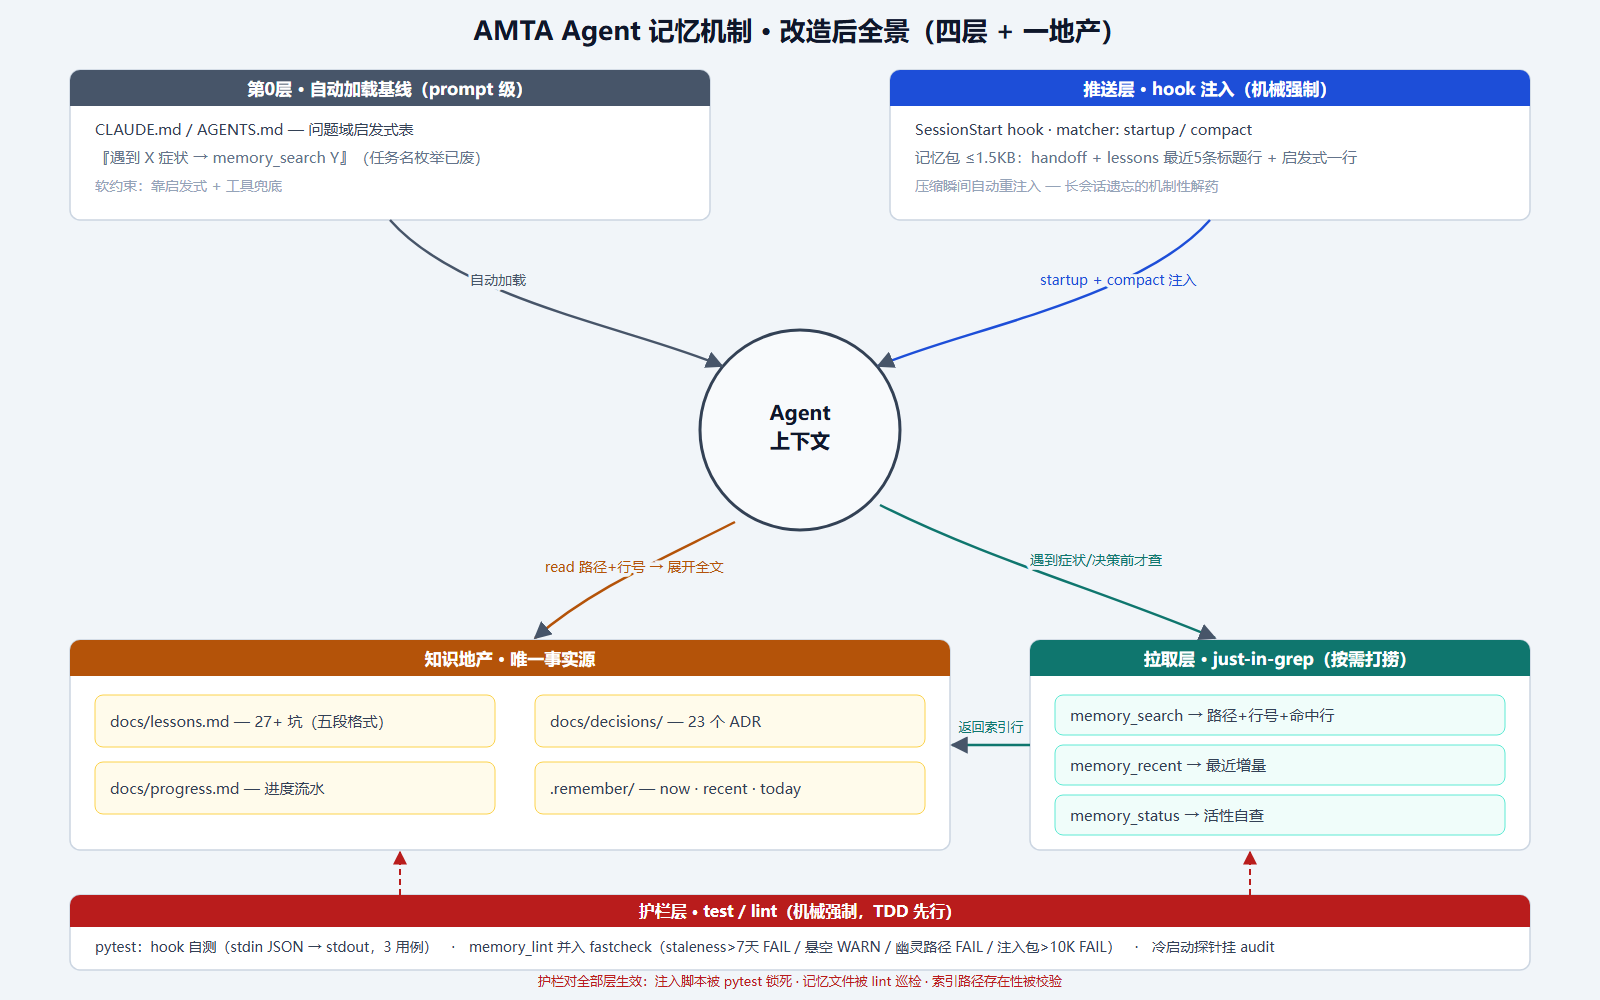
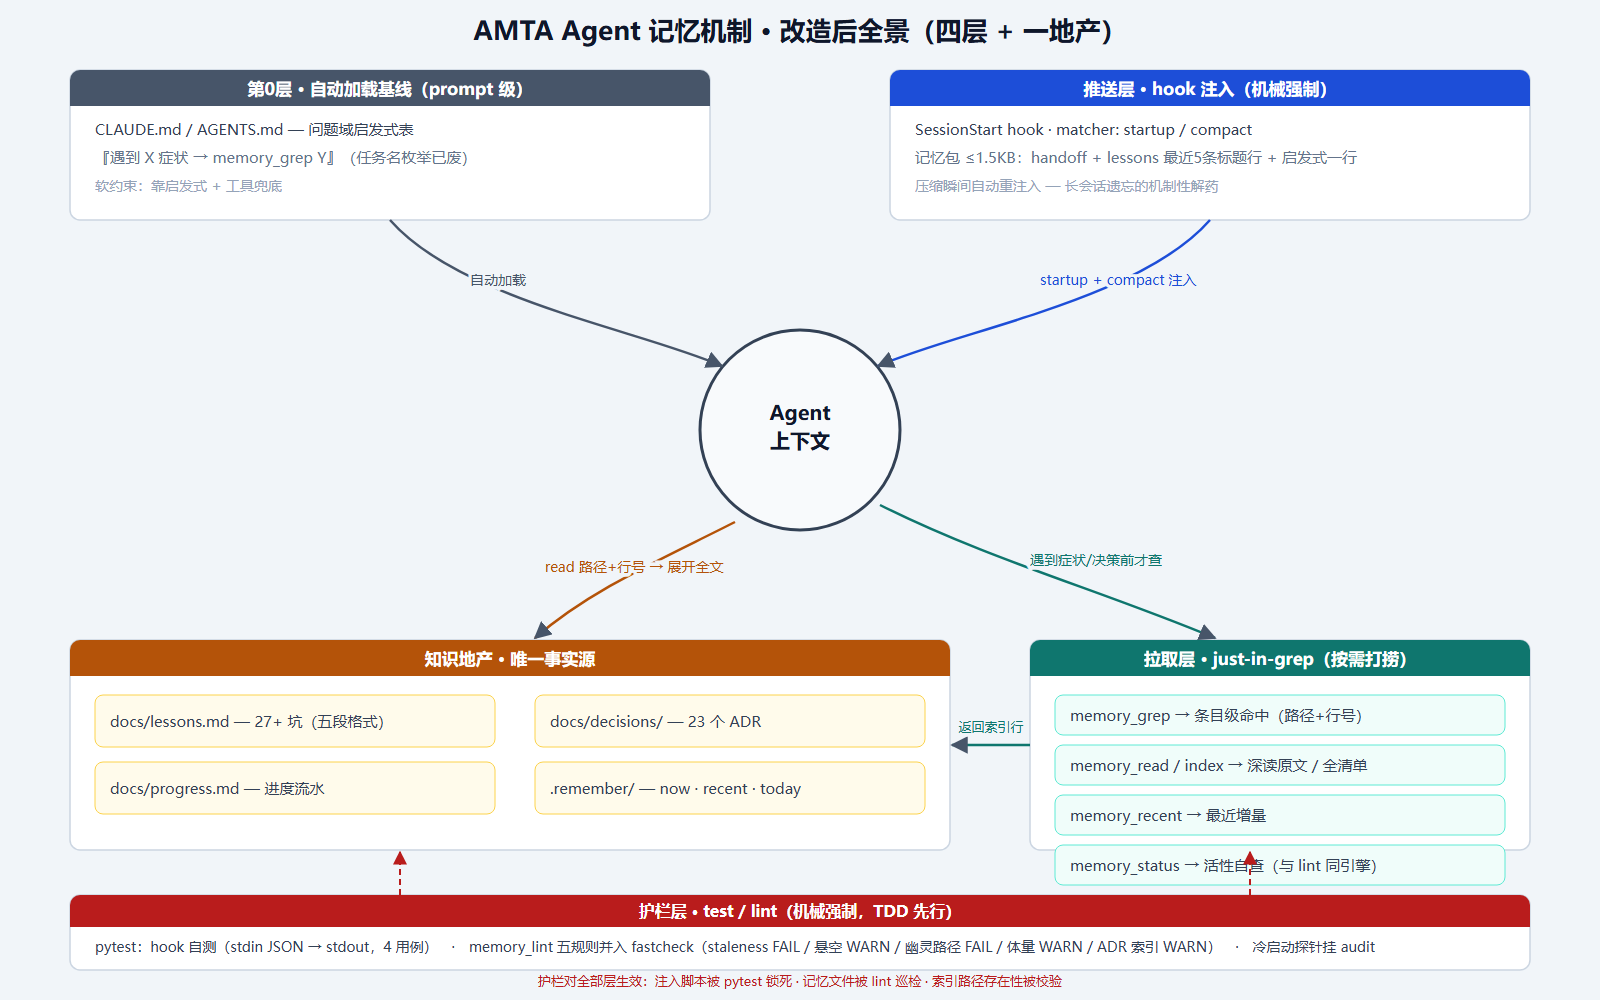
docs(memory): 图解资产对齐五工具族 + 知识晋升（收尾）
- SVG/HTML chips：memory_search 预设名 → 实装五工具族（grep/read/index/recent/status）
- Edge headless 重渲染 PNG（1600x1000）
- lessons L32（subprocess locale 解码）/ L33（fixture 入 conftest）
- progress.md 记忆机制条目

diff --git a/amta/research/07-agent记忆机制-图解.html b/amta/research/07-agent记忆机制-图解.html
@@ -64,7 +64,7 @@
       <ul>
         <li><b>startup 注入</b>记忆包 ≤1.5KB（handoff + lessons 标题行 + 启发式）——不靠自觉</li>
         <li><b>compact 重注入</b>——上下文被压缩的瞬间，记忆包自动回来</li>
-        <li><b>just-in-grep 打捞</b>——遇到症状才查，memory_search 返回路径+行号，read 展开全文</li>
+        <li><b>just-in-grep 打捞</b>——遇到症状才查，memory_grep 返回条目级命中（路径+行号），memory_read 展开全文</li>
         <li><b>linter 进 fastcheck</b>——记忆腐坏（过期/悬空/幽灵路径/超预算）在提交前被拦截</li>
       </ul>
     </div>
@@ -79,10 +79,10 @@
   <h2>三、每层在什么时刻生效</h2>
   <table>
     <tr><th style="width:22%">时机</th><th style="width:20%">层</th><th>发生什么</th><th style="width:15%">强制等级</th></tr>
-    <tr><td>会话启动 / resume</td><td class="k">第0层 基线</td><td>CLAUDE.md、AGENTS.md 自动加载：核心事实 + 问题域启发式表（"遇到 X → 先 memory_search Y"）</td><td>prompt 级（软）</td></tr>
+    <tr><td>会话启动 / resume</td><td class="k">第0层 基线</td><td>CLAUDE.md、AGENTS.md 自动加载：核心事实 + 问题域启发式表（"遇到 X → 先 memory_grep Y"）</td><td>prompt 级（软）</td></tr>
     <tr><td>会话启动（startup）</td><td class="k">推送层</td><td>hook 注入记忆包 ≤1.5KB：handoff（now/recent）+ lessons 最近 5 条标题行 + 启发式一行。agent 零动作即见</td><td><b>hook 级（机械）</b></td></tr>
     <tr><td>上下文压缩（compact）</td><td class="k">推送层</td><td>瘦版记忆包 ≤0.5KB 自动重注入——长会话"看两眼就忘"的机制性解药：压缩 = 记忆丢失点 = 重注入点</td><td><b>hook 级（机械）</b></td></tr>
-    <tr><td>工作中遇到症状 / 决策前</td><td class="k">拉取层</td><td>just-in-grep：memory_search（全知识地产正则检索，返回路径+行号+命中行）→ memory_recent（最近增量）→ 内置 read 展开全文</td><td>工具级（半机械）</td></tr>
+    <tr><td>工作中遇到症状 / 决策前</td><td class="k">拉取层</td><td>just-in-grep：memory_grep（条目级正则检索，命中即给路径+行号）→ memory_read / index（深读 / 全清单）→ memory_recent（最近增量）→ memory_status（活性自查）</td><td>工具级（半机械）</td></tr>
     <tr><td>编码期 / 提交前</td><td class="k">护栏层</td><td>pytest 锁死 hook 脚本行为（stdin JSON → stdout）；memory_lint 并入 fastcheck：recent&gt;7 天 FAIL · today 悬空 WARN · 索引幽灵路径 FAIL · 注入包&gt;10K FAIL</td><td><b>test/lint 级（机械）</b></td></tr>
     <tr><td>审计期（每 2-4 周）</td><td class="k">护栏层</td><td>冷启动探针挂 audit：新会话问"上次停在哪 / 某坑怎么解"，命中即 PASS——记忆活性的定期体检</td><td>流程级</td></tr>
   </table>
@@ -94,7 +94,7 @@
       <p style="margin:6px 0;font-size:14.5px"><b>管"给多少"——token 粒度策略。</b>信息按层级展开：索引 → 摘要 → 全文，每层只暴露让 agent 决定"要不要往下看"的最小量。</p>
       <ul style="font-size:14px">
         <li>CLAUDE.md 索引行是第一层</li>
-        <li>memory_search 命中行是第二层</li>
+        <li>memory_grep 命中行是第二层</li>
         <li>read 全文是第三层</li>
         <li>claude-mem 的 search→timeline→read 是同款范式</li>
       </ul>
@@ -117,7 +117,7 @@
   <h2>五、Mermaid 源码（贴到 GitHub / Obsidian / mermaid.live 可渲染）</h2>
 <pre>flowchart TB
   subgraph BASE["第0层 · 自动加载基线（prompt级）"]
-    CLAUDEMD["CLAUDE.md / AGENTS.md<br/>问题域启发式表<br/>『遇到X症状 → memory_search Y』"]
+    CLAUDEMD["CLAUDE.md / AGENTS.md<br/>问题域启发式表<br/>『遇到X症状 → memory_grep Y』"]
   end
   subgraph PUSH["推送层 · hook 注入（机械强制）"]
     HOOK["SessionStart hook<br/>matcher: startup / compact"]
@@ -125,7 +125,7 @@
     HOOK --> PACK
   end
   subgraph PULL["拉取层 · just-in-grep（按需打捞）"]
-    SEARCH["memory_search query<br/>→ 路径+行号+命中行"]
+    SEARCH["memory_grep query<br/>→ 条目级命中（路径+行号）"]
     RECENT["memory_recent<br/>→ 最近增量"]
     STATUS["memory_status<br/>→ 活性自查"]
   end
@@ -157,7 +157,7 @@
   <h2>六、已定决策（grill-me 三轮收敛）</h2>
   <p>
     <span class="pill"><b>Q7</b> 注入包 ≤1.5KB / compact 瘦版 ≤0.5KB</span>
-    <span class="pill"><b>Q8</b> 三脚本：memory_search / memory_recent / memory_status（纯脚本，不建 MCP）</span>
+    <span class="pill"><b>Q8</b> 五工具：memory_grep / read / index / recent / status（纯脚本，不建 MCP）</span>
     <span class="pill"><b>Q9</b> CLAUDE.md 改问题域启发式表 + 清幽灵路径</span>
     <span class="pill"><b>Q10</b> TDD：pytest 3 用例 + linter FAIL/WARN 分级进 fastcheck</span>
     <span class="pill"><b>Q11</b> .remember 维持 gitignore，多机协作再翻案</span>

diff --git a/amta/docs/lessons.md b/amta/docs/lessons.md
@@ -264,6 +264,22 @@
 - **Prevention**：客户端封装 run_inpaint/fetch_inpainted（已测）；ADR-020 固化。
 - **Regression**：tests/test_koharu_inpaint.py 4 测。
 
+## L32 — Windows subprocess text=True 用 locale 解码，中文输出必炸
+
+- **Problem**：memory_recent 真仓库冒烟崩溃：git log 中文提交 → UnicodeDecodeError（reader thread）→ stdout=None → AttributeError。
+- **Root cause**：subprocess.run(capture_output=True, text=True) 在 Windows 按 locale（gbk）解码子进程输出，而 git/Python 子进程输出是 utf-8。
+- **Durable lesson**：Windows 下捕获含中文的子进程输出必须显式 `encoding="utf-8", errors="replace"`，并对 stdout 做 None 防护；CLI 面向 agent 管道消费时 stdout reconfigure(utf-8)（与 L27 同族）。
+- **Prevention**：tools.do_recent 已修；新脚本照此模板（scripts/memory_*.py 四个均带 reconfigure）。
+- **Regression**：tests/test_memory_inject.py 4 测（真子进程链路，含坏 JSON/空输入）。
+
+## L33 — pytest 跨文件复用 fixture 勿 import，放 tests/conftest.py
+
+- **Problem**：按计划在 test_memory_tools.py 里 `from tests.test_memory_estate import estate` 复用 fixture，ruff 报 F401/F811 共 9 错，pre-commit lint 门禁拦截提交。
+- **Root cause**：ruff 把测试函数的同名参数视为对 import 名的 redefinition；跨文件 import fixture 本就是非常规用法。
+- **Durable lesson**：跨测试文件共享 fixture 一律放 tests/conftest.py（pytest 自动发现，无需 import）；项目已配 pytest pythonpath=["src","."]。
+- **Prevention**：estate fixture 已入 tests/conftest.py；新增 memory 测试直接声明 `estate: Path` 参数。
+- **Regression**：fastcheck lint 步全绿（357 测试 + ruff）。
+
 ## 模板（新增时复制）
 
 ```

diff --git a/amta/docs/progress.md b/amta/docs/progress.md
@@ -247,3 +247,8 @@ evisions_fc_round1.json → pply_revisions --only 重评审 **5/5 全过** → 
 - 方案B（含方案A commit）推 origin ✓；agent-loop-stage1 主 checkout WIP 全量 commit（06_page_judge 页级质检工具等）✓；删除已合并分支 translate-harness / translate-tools-fc / refactor-ocr-speed ✓。
 - 遗留：`contained_in` 保留决策已定（保留）；但 Stage 3 prompt 实际未传 bbox（ADR-023 规格与实现不符，待补）；main 落后 50+ commit，front3 定稿后合并。
 
+
+**Agent 记忆机制四层闭环（feature/agent-memory，2026-08-30，ADR-025）**
+- 读取端机械化：CLAUDE.md 问题域启发式表 + SessionStart hook 注入（startup ≤1.5KB / compact ≤0.5KB，恒 exit 0）+ memory_grep/read/index/recent/status 五工具（条目级语义返回）+ memory_lint 五规则进 fastcheck；冷启动探针协议 docs/memory-probe.md（真实 CC 会话探针留 audit 期执行）。
+- 结构：src/amta/memory/ 包 = estate（解析）/ tools（检索）/ lint（检查）+ project_memory（旧 memory.py 并入，re-export 兼容）；scripts/memory_*.py 六薄 CLI；tests 新增 23 测。
+- 收尾：research 幽灵路径清零；decisions 索引补 022/023/025 并归一化 019-021/024；图解资产对齐五工具族；fastcheck 357 全绿（基线 334）。分支待整合。
